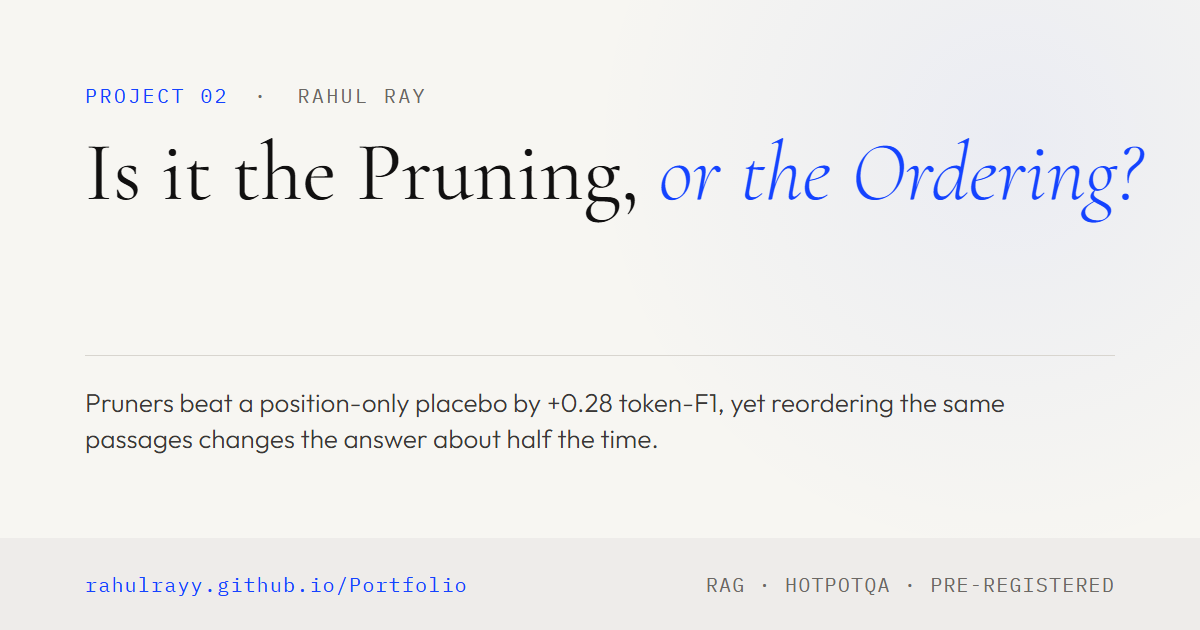
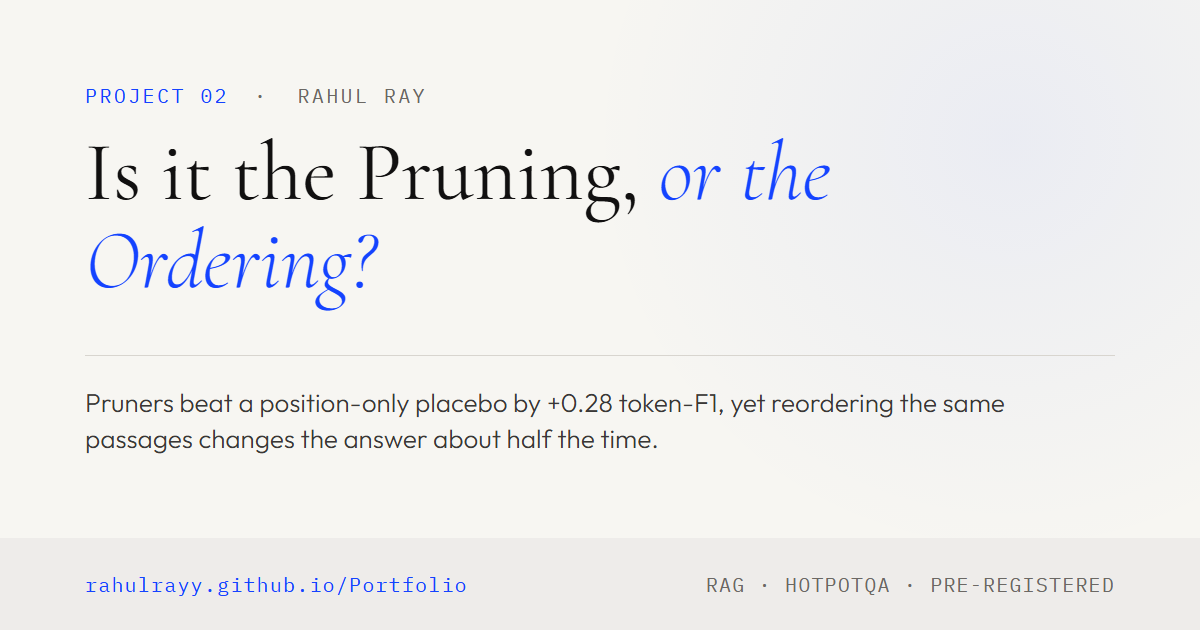
Fix preview title wrapping; tighten e-means writeup wording

Changed region(s): [[0.7092, 0.2413, 0.9558, 0.3619], [0.0617, 0.3619, 0.3083, 0.4825]]

diff --git a/projects/e-means.html b/projects/e-means.html
@@ -115,8 +115,8 @@
     </table>
     <p>
       Before each of the main tests I wrote down what would count as a pass or a fail, and
-      each test script prints its criteria as PASS/FAIL. A few of them failed, and those are
-      reported below along with the ones that passed.
+      each test script prints its criteria as PASS/FAIL. Results are reported either way,
+      including the tests that failed.
     </p>
 
     <h2>What came out</h2>
@@ -159,7 +159,7 @@
     </p>
     <p>
       For 1024 centroids on 2-d Gaussian data, measured as the gap above the theoretical
-      bound:
+      bound (these numbers are from one figure in the repository):
     </p>
     <table class="data-table">
       <thead>
@@ -173,8 +173,8 @@
       </tbody>
     </table>
     <p>
-      k-means++ fixes the start for Lloyd. e-means does not keep it: from the same k-means++
-      start it ends 11% worse than Lloyd.
+      k-means++ fixes the start for Lloyd. e-means does not keep it: in a separate comparison
+      from the same k-means++ start, it ends 11% worse than Lloyd.
     </p>
 
     <h3>Revival is the culprit</h3>
@@ -213,10 +213,11 @@
     <p>
       <strong>Second held-out test: passed.</strong> This used data I had not touched before:
       a colour-wheel image, a swiss roll, Laplace data at m = 2 and Student-t data at m = 3,
-      with Gaussian m = 4, Laplace m = 6 and GloVe as high-dimensional controls. Each was run
+      with Gaussian m = 4, Laplace m = 6 and GloVe as controls that should land above the
+      threshold. Each was run
       at k = 768 and 3072 for 2 and 5 epochs over 5 paired seeds, compared against the paper's
-      defaults. The three criteria were set in advance: every low- and high-dimensional
-      dataset classified correctly, a mean change of −2% or better on the low-dimensional
+      defaults. The three criteria were set in advance: every low-dimensional
+      dataset and every control classified correctly, a mean change of −2% or better on the low-dimensional
       ones, and no low-dimensional setting significantly worse.
     </p>
     <ul>
